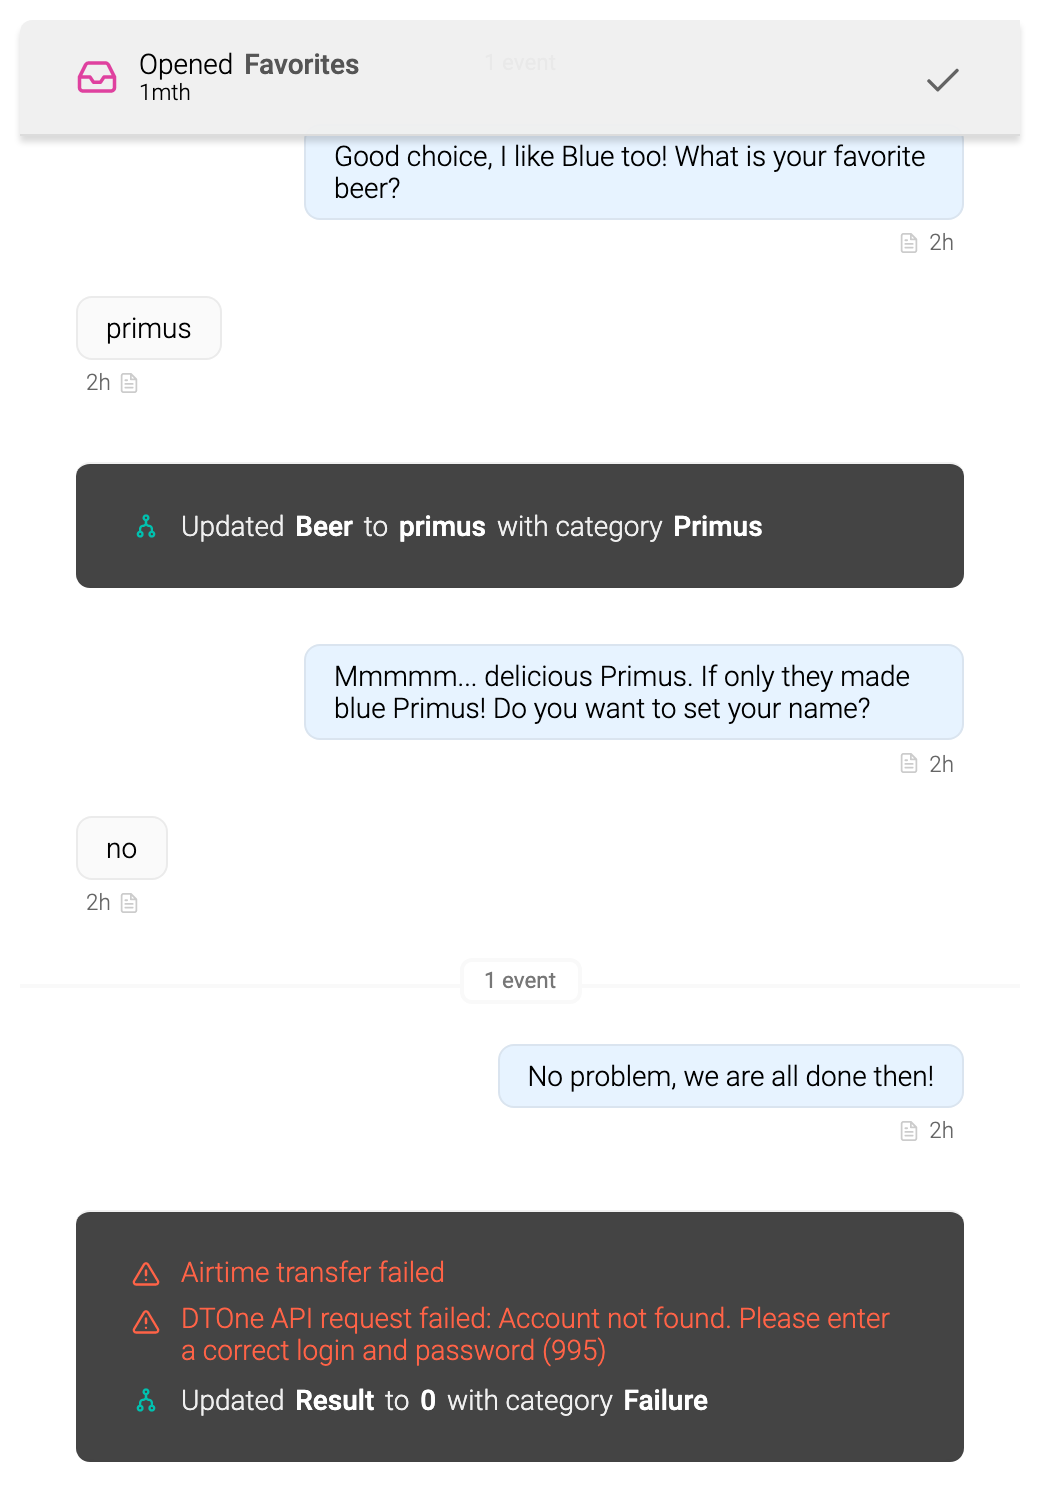
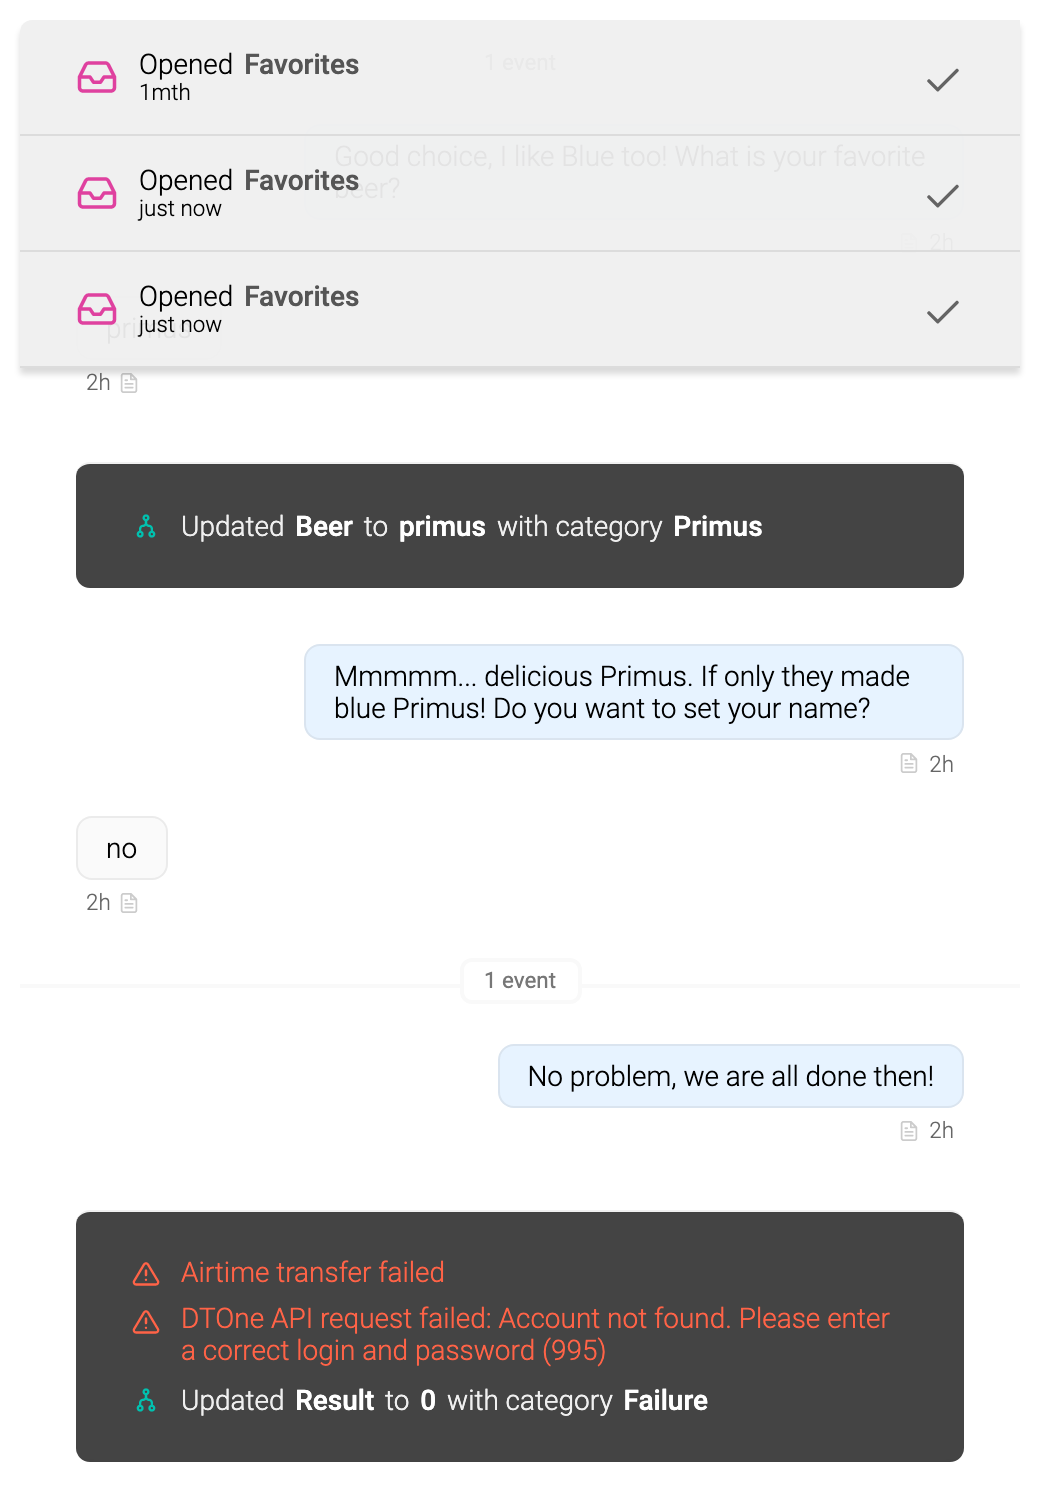
Fix ticket event context

Changed region(s): [[0.0308, 0.184, 0.9538, 0.276], [0.0615, 0.092, 0.8923, 0.1533], [0.8923, 0.1227, 0.9231, 0.2147]]

diff --git a/src/contacts/ContactHistory.ts b/src/contacts/ContactHistory.ts
@@ -176,6 +176,8 @@ export class ContactHistory extends RapidElement {
   @property({ type: Object })
   currentTicket: Ticket = null;
 
+  ticketEvents: { [uuid: string]: TicketOpenedEvent } = {};
+
   nextBefore: number;
   nextAfter: number;
   lastHeight: number = 0;
@@ -201,6 +203,13 @@ export class ContactHistory extends RapidElement {
 
   public updated(changedProperties: Map<string, any>) {
     super.updated(changedProperties);
+
+    // fire an event when our current ticket changes
+    if (changedProperties.has('currentTicket')) {
+      this.fireCustomEvent(CustomEventType.ContextChanged, {
+        context: this.currentTicket,
+      });
+    }
 
     // fire an event if we get a new event
     if (changedProperties.has('mostRecentEvent')) {
@@ -234,6 +243,14 @@ export class ContactHistory extends RapidElement {
           if (results.events && results.events.length > 0) {
             this.updateMostRecent(results.events[0]);
           }
+
+          // keep track of any ticket events
+          results.events.forEach((event: ContactEvent) => {
+            if (event.type === Events.TICKET_OPENED) {
+              const ticketEvent = event as TicketOpenedEvent;
+              this.ticketEvents[ticketEvent.ticket.uuid] = ticketEvent;
+            }
+          });
 
           let fetchedEvents = results.events.reverse();
 
@@ -300,6 +317,14 @@ export class ContactHistory extends RapidElement {
         // see if we have a new event
         if (results.events && results.events.length > 0) {
           this.updateMostRecent(results.events[0]);
+
+          // keep track of any ticket events
+          results.events.forEach((event: ContactEvent) => {
+            if (event.type === Events.TICKET_OPENED) {
+              const ticketEvent = event as TicketOpenedEvent;
+              this.ticketEvents[ticketEvent.ticket.uuid] = ticketEvent;
+            }
+          });
         }
 
         let forceOpen = false;
@@ -351,7 +376,6 @@ export class ContactHistory extends RapidElement {
       if (events.scrollHeight > this.lastHeight) {
         const scrollTop =
           events.scrollTop + events.scrollHeight - this.lastHeight;
-        // console.log('Scrolling to', scrollTop);
         events.scrollTop = scrollTop;
       }
 
@@ -382,6 +406,18 @@ export class ContactHistory extends RapidElement {
           stickyBin.removeChild(child);
         }
       }
+      if (!this.currentTicket) {
+        this.updateCurrentTicket();
+      }
+    }
+  }
+
+  private updateCurrentTicket() {
+    const openTickets = (this.tickets || []).filter(
+      ticket => ticket && ticket.status === 'open'
+    );
+    if (openTickets.length > 0) {
+      this.currentTicket = openTickets[openTickets.length - 1];
     }
   }
 
@@ -459,8 +495,10 @@ export class ContactHistory extends RapidElement {
       stickyBin.removeChild(stickyBin.firstElementChild);
     }
 
+    this.currentTicket = null;
     this.endpoint = null;
     this.tickets = null;
+    this.ticketEvents = {};
     this.eventGroups = [];
     this.fetching = false;
     this.complete = false;
@@ -522,10 +560,7 @@ export class ContactHistory extends RapidElement {
               !this.currentTicket ||
               this.currentTicket.uuid !== ticket.uuid
             ) {
-              this.currentTicket === ticket;
-              this.fireCustomEvent(CustomEventType.ContextChanged, {
-                context: ticket,
-              });
+              this.currentTicket = ticket;
             }
           }
         }
@@ -537,20 +572,24 @@ export class ContactHistory extends RapidElement {
 
           const uuid = eventElement.getAttribute('data-sticky-id');
 
-          let previousTicket = null;
+          let previousTicket: Ticket = null;
           for (let ticket of this.tickets) {
             if (ticket.uuid === uuid) {
               break;
             }
             previousTicket = ticket;
           }
+
           if (
-            !this.currentTicket ||
-            this.currentTicket.uuid !== previousTicket.uuid
+            previousTicket &&
+            (!this.currentTicket ||
+              this.currentTicket.uuid !== previousTicket.uuid)
           ) {
-            this.fireCustomEvent(CustomEventType.ContextChanged, {
-              context: previousTicket,
-            });
+            if (previousTicket.status === 'open') {
+              this.currentTicket = previousTicket;
+            } else {
+              this.currentTicket = null;
+            }
           }
         }
       }
@@ -656,6 +695,7 @@ export class ContactHistory extends RapidElement {
         this.fireCustomEvent(CustomEventType.ContentChanged, {
           ticket: { uuid, status: 'C' },
         });
+        this.updateCurrentTicket();
       })
       .catch((response: any) => {
         console.error(response);
@@ -671,6 +711,11 @@ export class ContactHistory extends RapidElement {
     ];
   }
 
+  /** Check if a ticket event is no longer represented in a session */
+  private isPurged(ticket: Ticket): boolean {
+    return !this.ticketEvents[ticket.uuid];
+  }
+
   public render(): TemplateResult {
     // render our older tickets as faux-events
     const unfetchedTickets =
@@ -678,7 +723,7 @@ export class ContactHistory extends RapidElement {
         ? this.tickets.map((ticket: Ticket) => {
             if (ticket && ticket.status === 'open') {
               const opened = new Date(ticket.opened_on).getTime() * 1000;
-              if (opened < this.nextBefore) {
+              if (opened < this.nextBefore || this.isPurged(ticket)) {
                 const ticketOpenedEvent = {
                   type: Events.TICKET_OPENED,
                   ticket: {

diff --git a/src/RapidElement.ts b/src/RapidElement.ts
@@ -57,17 +57,17 @@ export class RapidElement extends LitElement {
   }
 
   public dispatchEvent(event: any): any {
-    if (!super.dispatchEvent(event)) {
-      const ele = event.target;
-      if (ele) {
-        const eventFire = (ele as any)['-' + event.type];
-        if (eventFire) {
-          return eventFire(event);
-        } else {
-          // lookup events with @ prefix and try to invoke them
-          const func = new Function(
-            'event',
-            `with(document) {
+    super.dispatchEvent(event);
+    const ele = event.target;
+    if (ele) {
+      // lookup events with - prefix and try to invoke them
+      const eventFire = (ele as any)['-' + event.type];
+      if (eventFire) {
+        return eventFire(event);
+      } else {
+        const func = new Function(
+          'event',
+          `with(document) {
           with(this) {
             let handler = ${ele.getAttribute('-' + event.type)};
             if(typeof handler === 'function') { 
@@ -75,12 +75,12 @@ export class RapidElement extends LitElement {
             }
           }
         }`
-          );
-          return func.call(ele, event);
-        }
+        );
+        return func.call(ele, event);
       }
     }
   }
+
   public closestElement(selector: string, base: Element = this) {
     function __closestFrom(el: Element | Window | Document): Element {
       if (!el || el === document || el === window) return null;

diff --git a/test/temba-select.test.ts b/test/temba-select.test.ts
@@ -282,7 +282,7 @@ describe('temba-select', () => {
 
       await typeInto('temba-select', 're', false);
       await open(select);
-      await forPages(select, 1);
+      await forPages(select, 2);
       assert.equal(select.visibleOptions.length, 2);
 
       await assertScreenshot('select/searching', getClipWithOptions(select));

diff --git a/src/contacts/ContactChat.ts b/src/contacts/ContactChat.ts
@@ -144,7 +144,10 @@ export class ContactChat extends RapidElement {
   }
 
   public refresh(): void {
-    this.getContactHistory().refresh();
+    const contactHistory = this.getContactHistory();
+    if (contactHistory) {
+      contactHistory.refresh();
+    }
   }
 
   public updated(changedProperties: Map<string, any>) {
